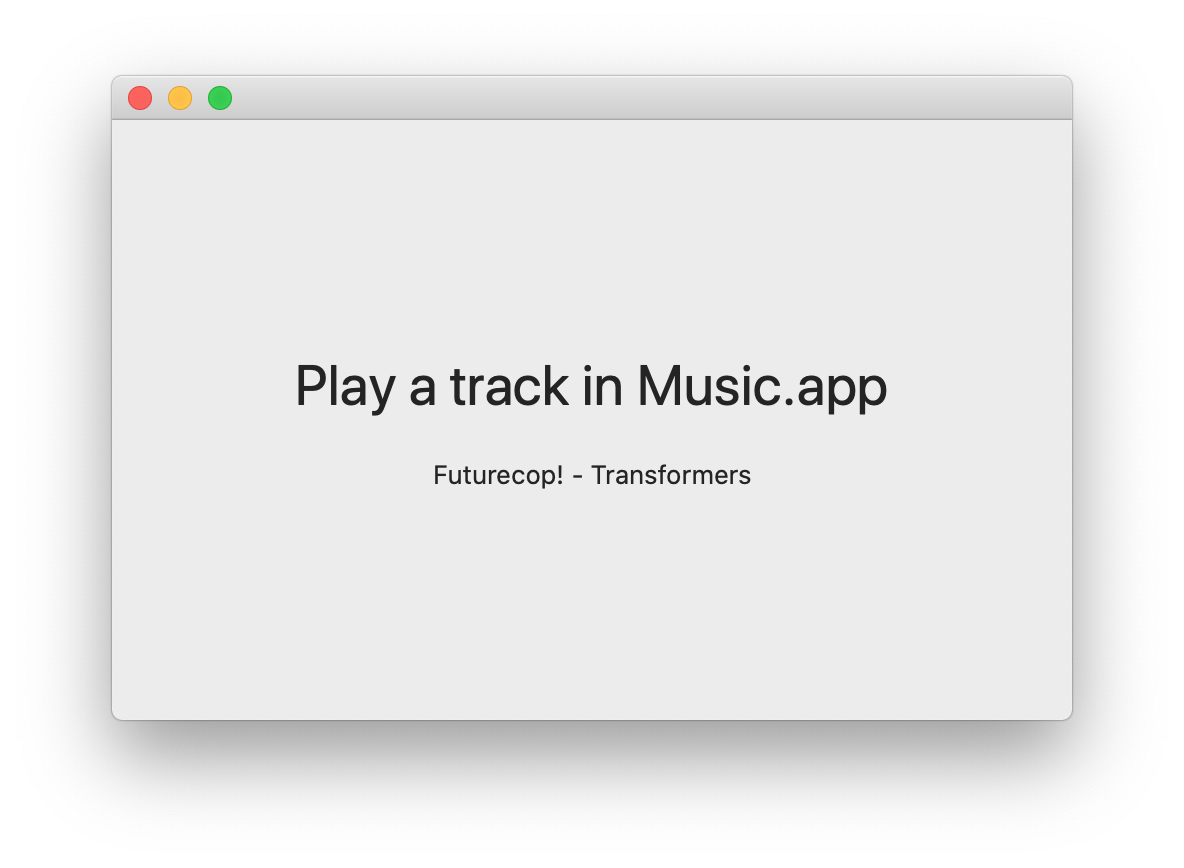
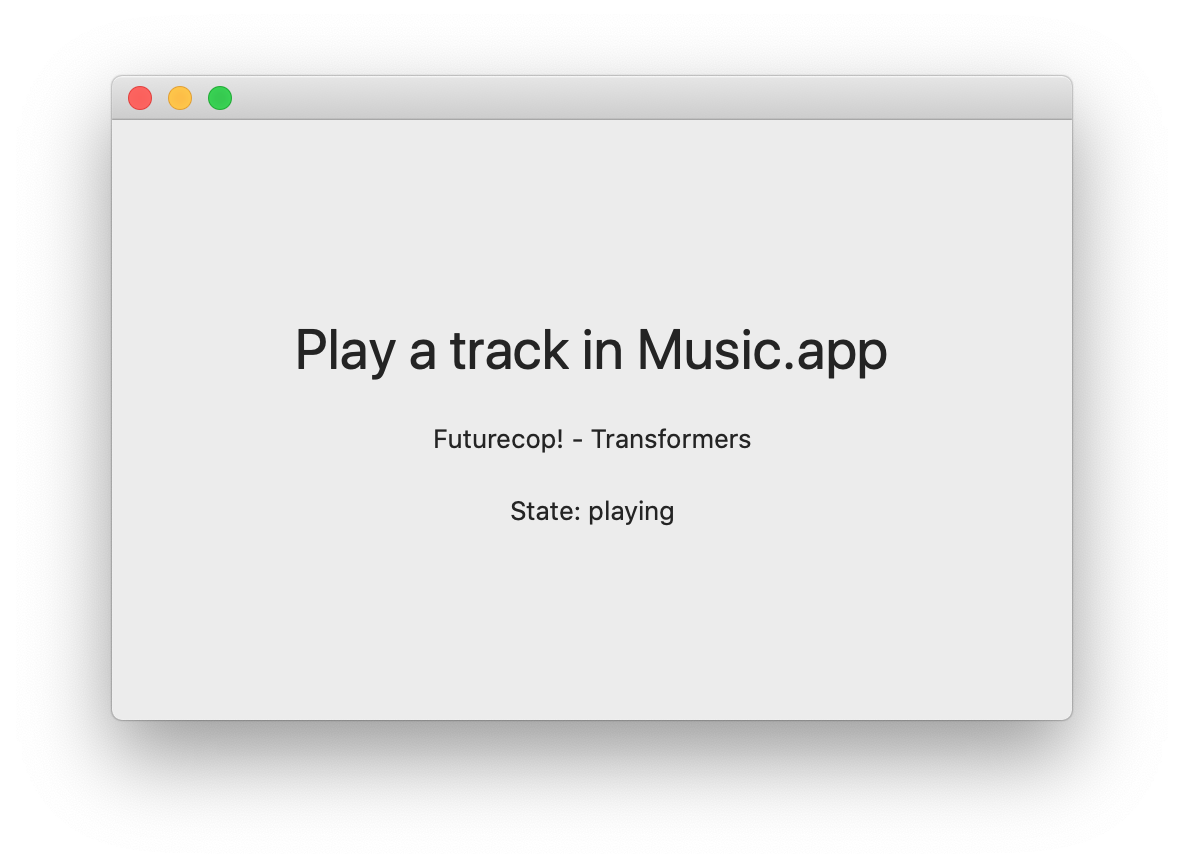
Add player state monitoring

Changed region(s): [[0.25, 0.3733, 0.75, 0.4666], [0.375, 0.4977, 0.6562, 0.6221]]

diff --git a/CatalinaMusicBridge/Controllers/Listener.swift b/CatalinaMusicBridge/Controllers/Listener.swift
@@ -13,6 +13,8 @@ class Listener {
     // MARK: - Properties
     
     var didUpdatePlayerInfo: ((PlayerInfo) -> Void)?
+
+    private(set) var playerInfo = PlayerInfo(state: .unknown)
     
     // MARK: - Object lifecycle
     
@@ -34,8 +36,10 @@ class Listener {
                          selector: #selector(handlePlayerStateChange(_:)),
                          name: .iTunesPlayerInfo,
                          object: nil)
+
+        updatePlayerInfo()
     }
-    
+
     func stop() {
         guard isEnabled else { return }
         
@@ -46,32 +50,63 @@ class Listener {
     
     @objc private func handlePlayerStateChange(_ notification: Notification) {
         // Note: I'm aware we could use the player state from the `userInfo`, that's not the point of this example.
-//        let artist = notification.userInfo?["Artist"] as? String ?? ""
-//        let title = notification.userInfo?["Name"] as? String ?? ""
 
-        // Update player state through AppleScript
+        updatePlayerInfo()
+    }
+
+    private func updatePlayerInfo() {
+        let song = fetchSong()
+        let state = fetchPlayerState()
+        let playerInfo = PlayerInfo(state: state, artist: song.artist, title: song.title)
+        self.playerInfo = playerInfo
+
+        didUpdatePlayerInfo?(playerInfo)
+    }
+
+    // MARK: - Scripts
+
+    private func fetchSong() -> (artist: String?, title: String?) {
+        var error: NSDictionary?
         let source = """
-property trackName : \"\"
-property trackArtist : \"\"
-tell application \"Music\"
+property trackName : ""
+property trackArtist : ""
+tell application "Music"
 set trackName to name of current track
 set trackArtist to artist of current track
 end tell
 return {trackArtist, trackName}
 """
+
         let script = NSAppleScript(source: source)
-        var error: NSDictionary?
         guard let output = script?.executeAndReturnError(&error) else {
-            print("AppleScript error:\n\(error ?? [:])")
-            return
+            print("Track Info error:\n\(error ?? [:])")
+            return (nil, nil)
         }
-        
-        let artist = output.atIndex(1)?.stringValue ?? ""
-        let title = output.atIndex(2)?.stringValue ?? ""
 
-        let playerInfo = PlayerInfo(artist: artist, title: title)
+        let artist = output.atIndex(1)?.stringValue
+        let title = output.atIndex(2)?.stringValue
 
-        didUpdatePlayerInfo?(playerInfo)
+        return (artist: artist, title: title)
     }
     
+    private func fetchPlayerState() -> PlayerInfo.State {
+        var error: NSDictionary?
+        let source = """
+tell application "Music"
+player state
+end
+"""
+
+        let script = NSAppleScript(source: source)
+        guard let output = script?.executeAndReturnError(&error),
+            let stateString = output.stringValue else {
+            print("Player State error:\n\(error ?? [:])")
+            return .unknown
+        }
+
+        let state = PlayerInfo.State(rawValue: stateString) ?? .unknown
+
+        return state
+    }
+
 }

diff --git a/CatalinaMusicBridge/GUI/ContentViewModel.swift b/CatalinaMusicBridge/GUI/ContentViewModel.swift
@@ -17,8 +17,11 @@ class ContentViewModel: BindableObject {
     var currentTrack: String {
         return "\(playerInfo.artist) - \(playerInfo.title)"
     }
+    var playerState: String {
+        return "\(playerInfo.state)"
+    }
     
-    private var playerInfo = PlayerInfo(artist: "N/A", title: "N/A") {
+    private var playerInfo: PlayerInfo {
         didSet {
             didChange.send(self)
         }
@@ -30,6 +33,7 @@ class ContentViewModel: BindableObject {
 
     init(listener: Listener) {
         self.listener = listener
+        self.playerInfo = listener.playerInfo
         
         listener.didUpdatePlayerInfo = { self.playerInfo = $0 }
     }

diff --git a/CatalinaMusicBridge/Models/PlayerInfo.swift b/CatalinaMusicBridge/Models/PlayerInfo.swift
@@ -7,8 +7,21 @@
 //
 
 import Foundation
-
 struct PlayerInfo {
+    enum State: String {
+        case unknown = "unknown"
+        case playing = "kPSP"
+        case paused = "kPSp"
+        case stopped = "kPSS"
+    }
+
+    let state: State
     let artist: String
     let title: String
+
+    init(state: State, artist: String? = nil, title: String? = nil) {
+        self.state = state
+        self.artist = artist ?? "N/A"
+        self.title = title ?? "N/A"
+    }
 }

diff --git a/CatalinaMusicBridge/GUI/ContentView.swift b/CatalinaMusicBridge/GUI/ContentView.swift
@@ -16,6 +16,8 @@ struct ContentView : View {
             Text("Play a track in Music.app")
                 .font(.title)
             Text("\(viewModel.currentTrack)")
+            Text("State: \(viewModel.playerState)")
+                .font(.footnote)
         }
         .frame(maxWidth: .infinity, maxHeight: .infinity)
     }

diff --git a/README.md b/README.md
@@ -32,6 +32,8 @@ Only library information (`com.apple.iTunes.library.read`) seems to be affected.
 Notice the error that appears in the Console:
 ![Privilege violation error shown in the console](Screenshots/error.png)
 
+Also note that the player state _did_ update appropriately.
+
 3. Disable sandboxing in `CatalinaMusicBridge.entitlements`.
 
 ```
